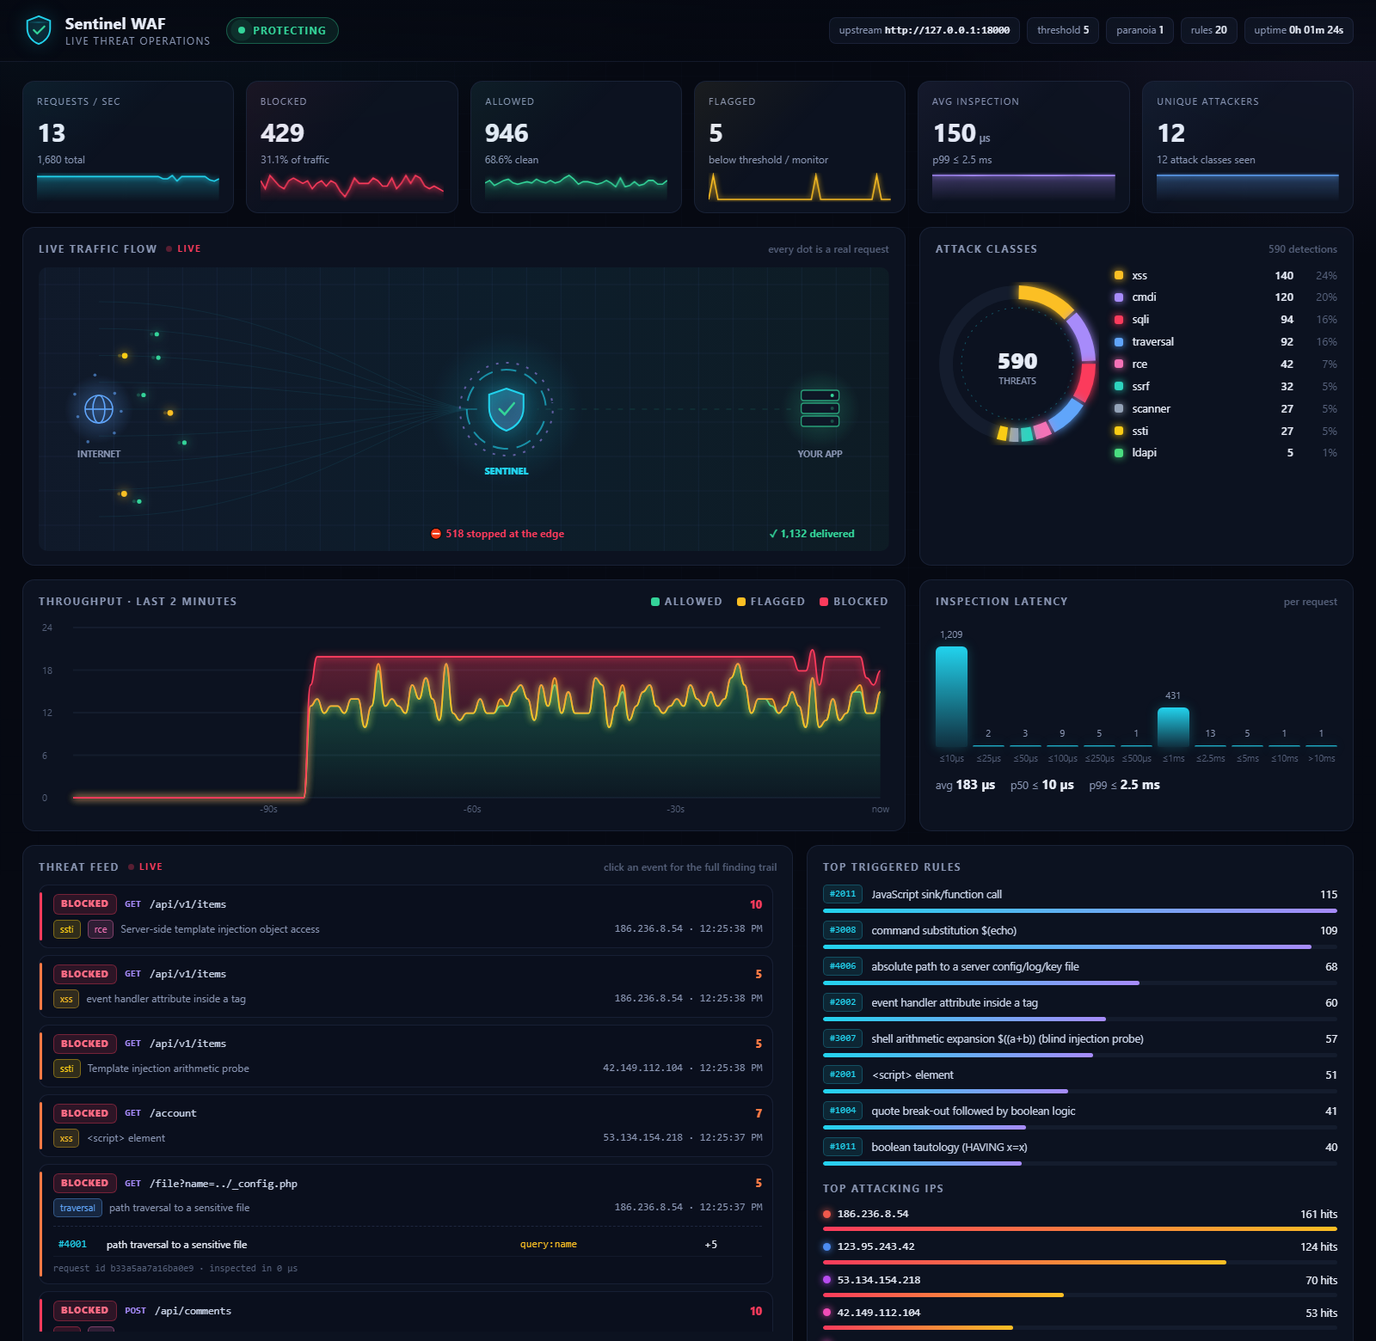
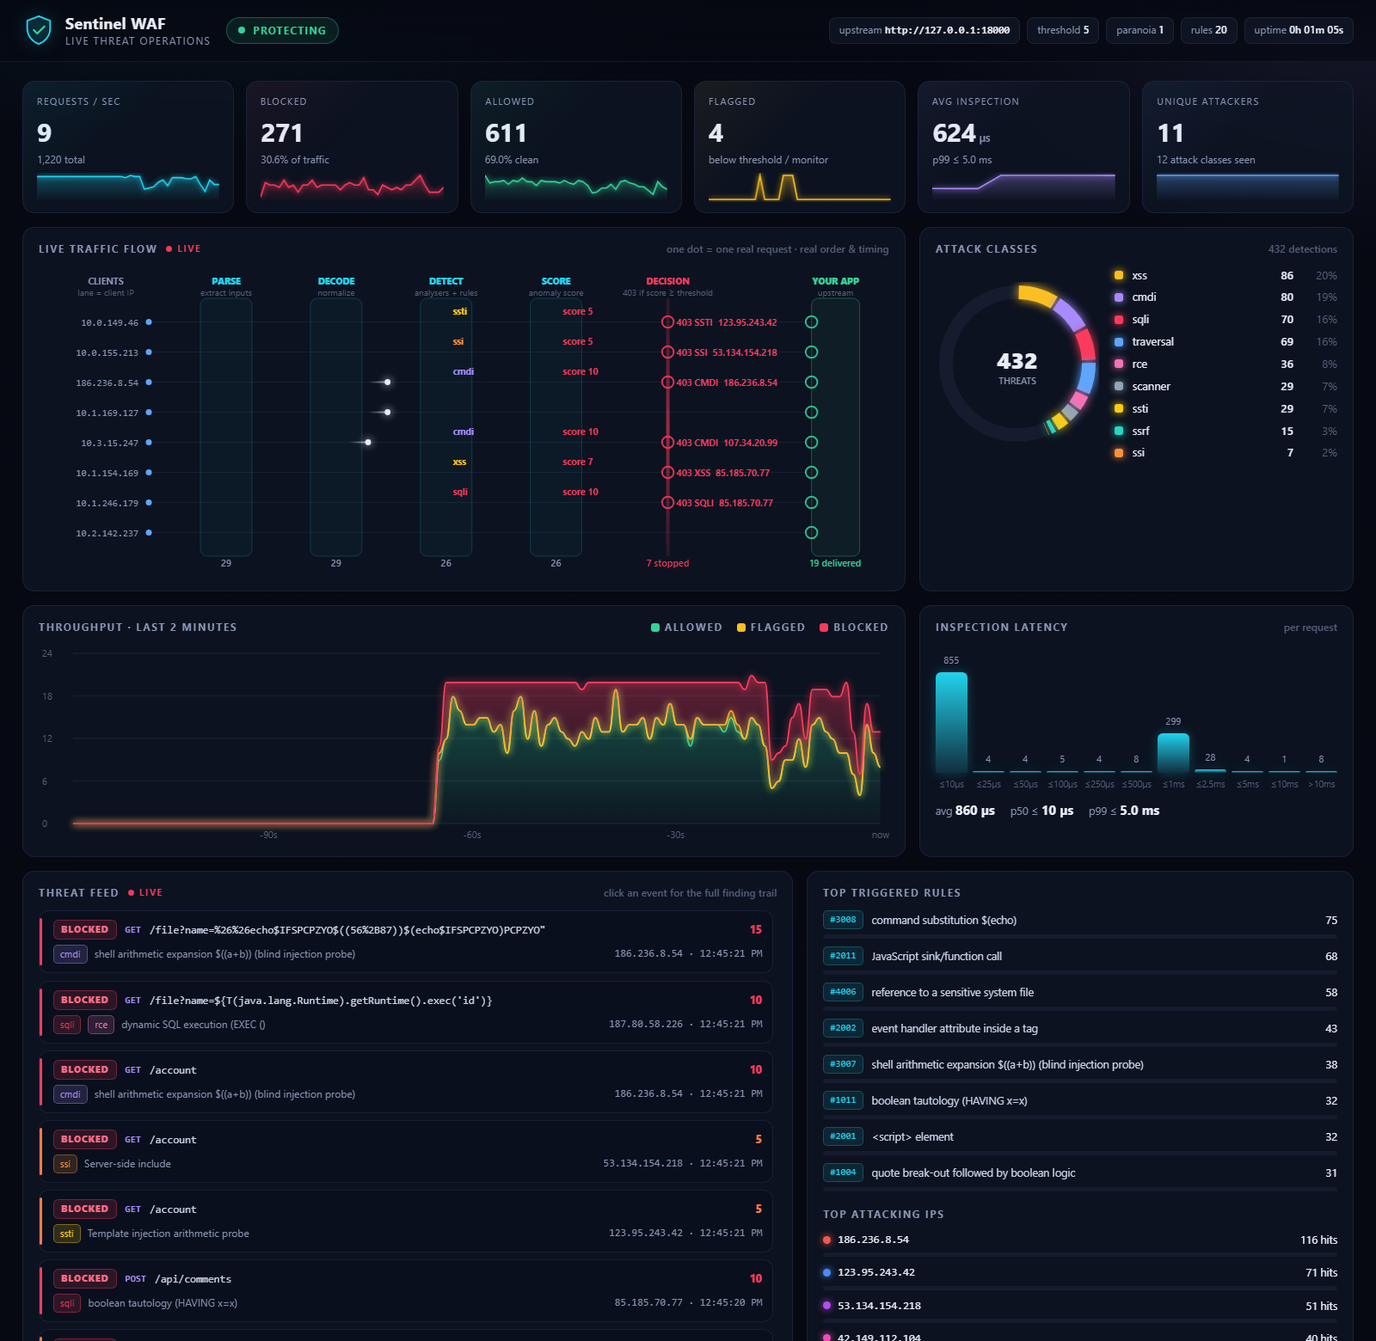
Dashboard: data-driven pipeline flow view
Replace the decorative particle animation with a view that follows the
real data path: one dot per request, replayed in real order and timing
(position derived from server timestamps), one lane per active client IP,
moving through PARSE/DECODE/DETECT/SCORE/DECISION/APP. Dots only take an
attack colour at DETECT, show the real score at SCORE, and blocked ones
stop at DECISION labelled with class and IP. Removes all random and
purely decorative motion (orbiting dots, spinning rings, scrolling grid,
random sparks).

diff --git a/internal/server/dashboard.html b/internal/server/dashboard.html
@@ -69,7 +69,7 @@ main{padding:22px 26px 40px;max-width:1680px;margin:0 auto}
 .panel h2 .right{margin-left:auto;text-transform:none;letter-spacing:0;font-weight:500;color:var(--faint);font-size:12px}
 .span8{grid-column:span 8}.span4{grid-column:span 4}.span12{grid-column:span 12}.span7{grid-column:span 7}.span5{grid-column:span 5}
 
-#flow{width:100%;height:330px;display:block;border-radius:10px}
+#flow{width:100%;height:360px;display:block;border-radius:10px}
 #tp{width:100%;height:230px;display:block}
 .legend{display:flex;gap:16px;font-size:12px;color:var(--dim)}
 .legend span::before{content:"";display:inline-block;width:10px;height:10px;border-radius:3px;margin-right:6px;vertical-align:-1px;background:var(--c)}
@@ -142,7 +142,7 @@ footer a{color:var(--dim)}
   <div class="brand">
     <div class="logo">
       <svg viewBox="0 0 40 40" fill="none"><path d="M20 3 6 8.5v9.7c0 8.7 5.9 15.9 14 18.8 8.1-2.9 14-10.1 14-18.8V8.5L20 3Z" stroke="#22d3ee" stroke-width="2" fill="rgba(34,211,238,.08)"/><path d="m14 20 4.2 4.2L27 15.5" stroke="#34d399" stroke-width="2.4" stroke-linecap="round" stroke-linejoin="round"/></svg>
-      <div class="scan"></div>
+
     </div>
     <div><h1>Sentinel WAF</h1><small>Live threat operations</small></div>
   </div>
@@ -168,7 +168,7 @@ footer a{color:var(--dim)}
 
   <section class="grid">
     <div class="panel span8">
-      <h2>Live traffic flow <span class="live">LIVE</span><span class="right" id="flow-note">every dot is a real request</span></h2>
+      <h2>Live traffic flow <span class="live">LIVE</span><span class="right" id="flow-note">one dot = one real request · real order &amp; timing</span></h2>
       <canvas id="flow"></canvas>
     </div>
     <div class="panel span4">
@@ -252,156 +252,126 @@ function spark(id, vals, color) {
   ctx.strokeStyle = color; ctx.lineWidth = 1.6; ctx.shadowColor = color; ctx.shadowBlur = 6; ctx.stroke(); ctx.shadowBlur = 0;
 }
 
-/* ---------------- live flow ---------------- */
-const flow = { parts: [], sparks: [], labels: [], ripples: [], pending: [], shieldHeat: 0, originPulse: 0, t: 0, allowed: 0, blocked: 0, srcs: [] };
-function spawn(ev) {
-  if (flow.pending.length > 600) flow.pending.splice(0, flow.pending.length - 600);
-  flow.pending.push(ev);
-}
-function flowFrame(dt) {
-  const cv = $("flow"); const [ctx, w, h] = sizeCanvas(cv);
-  flow.t += dt;
-  const sx = 70, shX = w * 0.55, oX = w - 80, cy = h / 2;
-
-  // release pending events smoothly across the poll interval
-  const rel = Math.min(flow.pending.length, Math.max(1, Math.ceil(flow.pending.length * dt * 1.6)));
-  for (let i = 0; i < rel; i++) {
-    const ev = flow.pending.shift(); if (!ev) break;
-    const lane = (hashIP(ev.ip) % 1000) / 1000;
-    const y0 = 40 + lane * (h - 80);
-    const bad = ev.action !== "allowed" && ev.action !== "flagged";
-    flow.parts.push({ x: sx, y: y0, y0, t: 0, speed: 0.55 + Math.random() * 0.35, bad, flag: ev.action === "flagged",
-      col: bad ? catColor((ev.categories || [])[0]) : ev.action === "flagged" ? "#fbbf24" : "#34d399", ev, stage: 0 });
+/* ---------------- live flow: one dot = one real request ----------------
+   Dots are replayed in the real order and with the real spacing of the
+   server timestamps, all at the same speed, on a lane chosen by client IP.
+   A dot is neutral until the DETECT stage (that is where Sentinel learns
+   what it is), shows its real score at SCORE, and at DECISION is either
+   stopped (403) or continues to the app. Nothing here is random. */
+const LANES = 8;
+const flow = { parts: [], queue: [], fx: [], laneIP: Array(LANES).fill(""), laneUsed: Array(LANES).fill(0), staged: [0, 0, 0, 0], delivered: 0, stopped: 0 };
+// An active IP keeps its lane; a new IP takes the least recently used lane.
+function laneFor(ip, now) {
+  let i = flow.laneIP.indexOf(ip);
+  if (i < 0) {
+    // prefer a lane with nothing in flight, so a label never changes under a moving request
+    const busy = new Set(flow.parts.map(p => p.lane));
+    let best = -1;
+    for (let k = 0; k < LANES; k++) if (!busy.has(k) && (best < 0 || flow.laneUsed[k] < flow.laneUsed[best])) best = k;
+    if (best < 0) { best = 0; for (let k = 1; k < LANES; k++) if (flow.laneUsed[k] < flow.laneUsed[best]) best = k; }
+    i = best; flow.laneIP[i] = ip;
   }
-
-  ctx.clearRect(0, 0, w, h);
-  // backdrop
-  const bg = ctx.createLinearGradient(0, 0, w, 0);
-  bg.addColorStop(0, "rgba(96,165,250,.05)"); bg.addColorStop(.55, "rgba(34,211,238,.06)"); bg.addColorStop(1, "rgba(52,211,153,.05)");
-  ctx.fillStyle = bg; ctx.fillRect(0, 0, w, h);
-  ctx.strokeStyle = "rgba(120,150,220,.07)"; ctx.lineWidth = 1;
-  for (let gx = (flow.t * 30) % 40; gx < w; gx += 40) { ctx.beginPath(); ctx.moveTo(gx, 0); ctx.lineTo(gx, h); ctx.stroke(); }
-  for (let gy = 20; gy < h; gy += 40) { ctx.beginPath(); ctx.moveTo(0, gy); ctx.lineTo(w, gy); ctx.stroke(); }
-
-  // lanes into the shield
-  ctx.strokeStyle = "rgba(34,211,238,.08)"; ctx.lineWidth = 1;
-  for (let i = 0; i < 9; i++) { const y0 = 40 + i / 8 * (h - 80); ctx.beginPath(); ctx.moveTo(sx, y0);
-    ctx.bezierCurveTo(sx + (shX - sx) * .5, y0, shX - 120, cy, shX - 34, cy); ctx.stroke(); }
-  ctx.strokeStyle = "rgba(52,211,153,.18)"; ctx.setLineDash([6, 8]); ctx.lineDashOffset = -flow.t * 40;
-  ctx.beginPath(); ctx.moveTo(shX + 36, cy); ctx.lineTo(oX - 34, cy); ctx.stroke(); ctx.setLineDash([]);
-
-  // internet node
-  drawNode(ctx, sx, cy, "INTERNET", "#60a5fa", 0);
-  for (let i = 0; i < 7; i++) { const a = flow.t * .4 + i * 0.9, r = 26 + (i % 3) * 7;
-    ctx.fillStyle = "rgba(96,165,250,.6)"; ctx.beginPath(); ctx.arc(sx + Math.cos(a) * r, cy + Math.sin(a) * r, 1.8, 0, 7); ctx.fill(); }
-  // origin node
-  drawServer(ctx, oX, cy);
-  // shield
-  drawShield(ctx, shX, cy);
-
-  // particles
-  for (let i = flow.parts.length - 1; i >= 0; i--) {
-    const p = flow.parts[i];
-    p.t += dt * p.speed;
-    let x, y;
-    if (p.stage === 0) {
-      const t = Math.min(1, p.t), it = 1 - t;
-      const x0 = sx, x1 = sx + (shX - sx) * .5, x2 = shX - 120, x3 = shX - 34;
-      x = it*it*it*x0 + 3*it*it*t*x1 + 3*it*t*t*x2 + t*t*t*x3;
-      y = it*it*it*p.y0 + 3*it*it*t*p.y0 + 3*it*t*t*cy + t*t*t*cy;
-      if (t >= 1) {
-        if (p.bad) { burst(shX - 30, cy, p.col, p.ev); flow.parts.splice(i, 1); flow.blocked++; continue; }
-        p.stage = 1; p.t = 0;
-      }
-    } else {
-      const t = Math.min(1, p.t * 1.6);
-      x = shX + 36 + (oX - 34 - shX - 36) * t; y = cy + Math.sin(t * Math.PI) * (p.flag ? -8 : 6);
-      if (t >= 1) { flow.originPulse = 1; flow.allowed++; flow.parts.splice(i, 1); continue; }
-    }
-    ctx.fillStyle = p.col; ctx.shadowColor = p.col; ctx.shadowBlur = 12;
-    ctx.beginPath(); ctx.arc(x, y, p.bad ? 3.4 : 2.6, 0, 7); ctx.fill();
-    ctx.shadowBlur = 0; ctx.globalAlpha = .25; ctx.beginPath(); ctx.arc(x - 6, y, 2, 0, 7); ctx.fill(); ctx.globalAlpha = 1;
-  }
-  if (flow.parts.length > 700) flow.parts.splice(0, flow.parts.length - 700);
-
-  // sparks, ripples, labels
-  for (let i = flow.sparks.length - 1; i >= 0; i--) {
-    const s = flow.sparks[i]; s.life -= dt * 1.6; if (s.life <= 0) { flow.sparks.splice(i, 1); continue; }
-    s.x += s.vx * dt; s.y += s.vy * dt; s.vx *= .96; s.vy *= .96;
-    ctx.globalAlpha = s.life; ctx.fillStyle = s.c; ctx.fillRect(s.x, s.y, 2.2, 2.2);
-  }
-  ctx.globalAlpha = 1;
-  for (let i = flow.ripples.length - 1; i >= 0; i--) {
-    const r = flow.ripples[i]; r.life -= dt * 1.5; if (r.life <= 0) { flow.ripples.splice(i, 1); continue; }
-    ctx.strokeStyle = r.c; ctx.globalAlpha = r.life * .7; ctx.lineWidth = 2;
-    ctx.beginPath(); ctx.arc(shX, cy, 44 + (1 - r.life) * 40, Math.PI * .6, Math.PI * 1.4); ctx.stroke();
-  }
-  ctx.globalAlpha = 1;
-  ctx.font = "600 11.5px Inter, system-ui, sans-serif"; ctx.textAlign = "center";
-  for (let i = flow.labels.length - 1; i >= 0; i--) {
-    const l = flow.labels[i]; l.life -= dt * .7; if (l.life <= 0) { flow.labels.splice(i, 1); continue; }
-    l.y -= dt * 26; ctx.globalAlpha = Math.min(1, l.life * 1.4); ctx.fillStyle = l.c;
-    ctx.fillText(l.text, l.x, l.y);
-  }
-  ctx.globalAlpha = 1; ctx.textAlign = "left";
-  flow.shieldHeat = Math.max(0, flow.shieldHeat - dt * 1.4);
-  flow.originPulse = Math.max(0, flow.originPulse - dt * 2);
-
-  // counters
-  ctx.font = "700 12px Inter, system-ui, sans-serif";
-  ctx.fillStyle = "#fb3b5c"; ctx.fillText(`⛔ ${fmt(tweens['k-blk'] ? tweens['k-blk'].cur : 0)} stopped at the edge`, shX - 90, h - 16);
-  ctx.fillStyle = "#34d399"; ctx.textAlign = "right"; ctx.fillText(`✓ ${fmt(tweens['k-ok'] ? tweens['k-ok'].cur : 0)} delivered`, oX + 40, h - 16); ctx.textAlign = "left";
+  flow.laneUsed[i] = now; return i;
 }
 function hashIP(s) { let h = 2166136261; for (const c of (s || "")) h = Math.imul(h ^ c.charCodeAt(0), 16777619) >>> 0; return h; }
-function burst(x, y, c, ev) {
-  for (let k = 0; k < 14; k++) { const a = Math.PI * (0.55 + Math.random() * 0.9), v = 60 + Math.random() * 140;
-    flow.sparks.push({ x, y, vx: Math.cos(a) * v, vy: Math.sin(a) * v, life: 1, c }); }
-  flow.ripples.push({ life: 1, c }); flow.shieldHeat = 1;
-  if (flow.labels.length < 14) flow.labels.push({ x: x - 70 - Math.random() * 40, y: y - 24 + (Math.random() - .5) * 60, life: 1.2, c,
-    text: ((ev.categories || [])[0] || ev.action).toUpperCase() + (ev.score ? " · " + ev.score : "") });
+// One label per lane+slot: a newer request replaces the older label instead of overprinting it.
+function fxSet(key, f) { const i = flow.fx.findIndex(x => x.key === key); f.key = key; if (i >= 0) flow.fx[i] = f; else flow.fx.push(f); }
+function scheduleBatch(evs) {
+  if (!evs || !evs.length) return;
+  const base = Date.parse(evs[0].time), now = performance.now();
+  const lag = flow.queue.length ? Math.max(0, flow.queue[flow.queue.length - 1].at - now) : 0;
+  for (const ev of evs) flow.queue.push({ at: now + lag + Math.max(0, Date.parse(ev.time) - base), ev });
+  if (flow.queue.length > 600) flow.queue.splice(0, flow.queue.length - 600);
 }
-function drawNode(ctx, x, y, label, col) {
-  const g = ctx.createRadialGradient(x, y, 2, x, y, 40); g.addColorStop(0, col + "55"); g.addColorStop(1, col + "00");
-  ctx.fillStyle = g; ctx.beginPath(); ctx.arc(x, y, 40, 0, 7); ctx.fill();
-  ctx.strokeStyle = col; ctx.lineWidth = 1.6; ctx.beginPath(); ctx.arc(x, y, 16, 0, 7); ctx.stroke();
-  ctx.beginPath(); ctx.ellipse(x, y, 7, 16, 0, 0, 7); ctx.stroke(); ctx.beginPath(); ctx.moveTo(x - 16, y); ctx.lineTo(x + 16, y); ctx.stroke();
-  ctx.font = "700 10.5px Inter, system-ui"; ctx.fillStyle = "#8a96b3"; ctx.textAlign = "center"; ctx.fillText(label, x, y + 56); ctx.textAlign = "left";
+const STAGES = [["PARSE", "extract inputs"], ["DECODE", "normalize"], ["DETECT", "analysers + rules"], ["SCORE", "anomaly score"]];
+function flowGeom(w, h) {
+  const top = 46, bottom = h - 34, laneH = (bottom - top) / LANES;
+  const xc = 128, gate = w * 0.74, app = w - 62;
+  const st = [0, 1, 2, 3].map(i => xc + 90 + i * (gate - xc - 220) / 3);
+  return { top, bottom, laneH, xc, st, gate, app, laneY: i => top + (i + 0.5) * laneH };
 }
-function drawServer(ctx, x, y) {
-  const p = flow.originPulse;
-  const g = ctx.createRadialGradient(x, y, 2, x, y, 46 + p * 10); g.addColorStop(0, `rgba(52,211,153,${.25 + p * .3})`); g.addColorStop(1, "rgba(52,211,153,0)");
-  ctx.fillStyle = g; ctx.beginPath(); ctx.arc(x, y, 50, 0, 7); ctx.fill();
-  for (let i = 0; i < 3; i++) {
-    const yy = y - 22 + i * 15;
-    ctx.fillStyle = "rgba(15,22,38,.95)"; ctx.strokeStyle = "rgba(52,211,153,.7)"; ctx.lineWidth = 1.3;
-    roundRect(ctx, x - 22, yy, 44, 12, 3); ctx.fill(); ctx.stroke();
-    ctx.fillStyle = (Math.floor(flow.t * 4 + i) % 3 === 0 || p > .3) ? "#34d399" : "rgba(52,211,153,.3)";
-    ctx.beginPath(); ctx.arc(x + 14, yy + 6, 2, 0, 7); ctx.fill();
+function flowFrame(dt) {
+  const [ctx, w, h] = sizeCanvas($("flow")); const g = flowGeom(w, h); const now = performance.now();
+
+  while (flow.queue.length && flow.queue[0].at <= now) {
+    const { ev, at } = flow.queue.shift(); const lane = laneFor(ev.ip, at);
+    const outcome = ev.action === "allowed" ? "ok" : ev.action === "flagged" ? "flag" : "block";
+    flow.parts.push({ ev, lane, born: at, x: g.xc, outcome, col: "#e7ecf7", stage: -1 });
   }
-  ctx.font = "700 10.5px Inter, system-ui"; ctx.fillStyle = "#8a96b3"; ctx.textAlign = "center"; ctx.fillText("YOUR APP", x, y + 56); ctx.textAlign = "left";
-}
-function drawShield(ctx, x, y) {
-  const heat = flow.shieldHeat;
-  const g = ctx.createRadialGradient(x, y, 4, x, y, 90);
-  g.addColorStop(0, heat > .05 ? `rgba(251,59,92,${.30 * heat + .08})` : "rgba(34,211,238,.18)"); g.addColorStop(1, "rgba(34,211,238,0)");
-  ctx.fillStyle = g; ctx.beginPath(); ctx.arc(x, y, 90, 0, 7); ctx.fill();
-  // rotating rings
-  ctx.lineWidth = 2;
-  for (let k = 0; k < 2; k++) {
-    ctx.save(); ctx.translate(x, y); ctx.rotate(flow.t * (k ? -.6 : .4));
-    ctx.strokeStyle = k ? "rgba(167,139,250,.55)" : "rgba(34,211,238,.6)"; ctx.setLineDash(k ? [3, 9] : [18, 10]);
-    ctx.beginPath(); ctx.arc(0, 0, k ? 54 : 46, 0, 7); ctx.stroke(); ctx.restore();
+  ctx.clearRect(0, 0, w, h);
+
+  // ---- static layout ----
+  ctx.textAlign = "center";
+  ctx.font = "700 10.5px Inter, system-ui"; ctx.fillStyle = "#8a96b3"; ctx.fillText("CLIENTS", g.xc - 50, 20);
+  ctx.fillStyle = "#55607a"; ctx.font = "10px Inter, system-ui"; ctx.fillText("lane = client IP", g.xc - 50, 33);
+  STAGES.forEach(([name, sub], i) => {
+    const x = g.st[i];
+    ctx.fillStyle = "rgba(34,211,238,.045)"; ctx.strokeStyle = "rgba(34,211,238,.20)"; ctx.lineWidth = 1;
+    roundRect(ctx, x - 30, g.top - 10, 60, g.bottom - g.top + 20, 8); ctx.fill(); ctx.stroke();
+    ctx.fillStyle = "#22d3ee"; ctx.font = "800 10.5px Inter, system-ui"; ctx.fillText(name, x, 20);
+    ctx.fillStyle = "#55607a"; ctx.font = "10px Inter, system-ui"; ctx.fillText(sub, x, 33);
+    ctx.fillStyle = "#8a96b3"; ctx.font = "600 11px Inter, system-ui"; ctx.fillText(fmt(flow.staged[i]), x, h - 12);
+  });
+  const gg = ctx.createLinearGradient(0, g.top, 0, g.bottom);
+  gg.addColorStop(0, "rgba(251,59,92,.15)"); gg.addColorStop(.5, "rgba(251,59,92,.6)"); gg.addColorStop(1, "rgba(251,59,92,.15)");
+  ctx.fillStyle = gg; ctx.fillRect(g.gate - 2, g.top - 10, 4, g.bottom - g.top + 20);
+  ctx.fillStyle = "#fb3b5c"; ctx.font = "800 10.5px Inter, system-ui"; ctx.fillText("DECISION", g.gate, 20);
+  ctx.fillStyle = "#55607a"; ctx.font = "10px Inter, system-ui"; ctx.fillText("403 if score ≥ threshold", g.gate, 33);
+  ctx.fillStyle = "#fb3b5c"; ctx.font = "600 11px Inter, system-ui"; ctx.fillText(fmt(flow.stopped) + " stopped", g.gate, h - 12);
+  ctx.fillStyle = "rgba(52,211,153,.06)"; ctx.strokeStyle = "rgba(52,211,153,.35)";
+  roundRect(ctx, g.app - 28, g.top - 10, 56, g.bottom - g.top + 20, 8); ctx.fill(); ctx.stroke();
+  ctx.fillStyle = "#34d399"; ctx.font = "800 10.5px Inter, system-ui"; ctx.fillText("YOUR APP", g.app, 20);
+  ctx.fillStyle = "#55607a"; ctx.font = "10px Inter, system-ui"; ctx.fillText("upstream", g.app, 33);
+  ctx.fillStyle = "#34d399"; ctx.font = "600 11px Inter, system-ui"; ctx.fillText(fmt(flow.delivered) + " delivered", g.app, h - 12);
+  for (let i = 0; i < LANES; i++) {
+    const y = g.laneY(i);
+    ctx.strokeStyle = "rgba(120,150,220,.10)"; ctx.lineWidth = 1; ctx.beginPath(); ctx.moveTo(g.xc, y); ctx.lineTo(g.app - 28, y); ctx.stroke();
+    ctx.fillStyle = flow.laneIP[i] ? "#60a5fa" : "#2a3247"; ctx.beginPath(); ctx.arc(g.xc, y, 3.5, 0, 7); ctx.fill();
+    ctx.textAlign = "right"; ctx.font = "11px 'JetBrains Mono', Consolas, monospace"; ctx.fillStyle = "#8a96b3";
+    ctx.fillText(flow.laneIP[i] || "—", g.xc - 12, y + 4); ctx.textAlign = "center";
   }
-  ctx.setLineDash([]);
-  // shield body
-  ctx.save(); ctx.translate(x - 20, y - 24); ctx.scale(1.0, 1.0);
-  ctx.beginPath(); ctx.moveTo(20, 0); ctx.lineTo(40, 7); ctx.lineTo(40, 22); ctx.bezierCurveTo(40, 36, 31, 45, 20, 49); ctx.bezierCurveTo(9, 45, 0, 36, 0, 22); ctx.lineTo(0, 7); ctx.closePath();
-  const sg = ctx.createLinearGradient(0, 0, 40, 49); sg.addColorStop(0, "rgba(34,211,238,.35)"); sg.addColorStop(1, "rgba(167,139,250,.25)");
-  ctx.fillStyle = sg; ctx.fill(); ctx.strokeStyle = heat > .05 ? "#fb3b5c" : "#22d3ee"; ctx.lineWidth = 2;
-  ctx.shadowColor = ctx.strokeStyle; ctx.shadowBlur = 16 + heat * 20; ctx.stroke(); ctx.shadowBlur = 0;
-  ctx.strokeStyle = "#34d399"; ctx.lineWidth = 2.6; ctx.lineCap = "round"; ctx.beginPath(); ctx.moveTo(12, 24); ctx.lineTo(18, 30); ctx.lineTo(29, 17); ctx.stroke();
-  ctx.restore();
-  ctx.font = "800 10.5px Inter, system-ui"; ctx.fillStyle = "#22d3ee"; ctx.textAlign = "center"; ctx.fillText("SENTINEL", x, y + 76); ctx.textAlign = "left";
+
+  // ---- requests: position = time since the request arrived x fixed speed (2 s client -> decision) ----
+  const speed = (g.gate - g.xc) / 2.0;
+  for (let i = flow.parts.length - 1; i >= 0; i--) {
+    const p = flow.parts[i], y = g.laneY(p.lane);
+    p.x = g.xc + speed * Math.max(0, now - p.born) / 1000;
+    while (p.stage < 3 && p.x >= g.st[p.stage + 1]) {
+      p.stage++; flow.staged[p.stage]++;
+      if (p.stage === 2 && (p.ev.categories || []).length) {
+        p.col = catColor(p.ev.categories[0]);
+        fxSet(p.lane + ":det", { kind: "tag", x: g.st[2] + 8, y: y - 9, text: p.ev.categories.join(" + "), c: p.col, life: 1.4 });
+      }
+      if (p.stage === 3 && p.ev.score)
+        fxSet(p.lane + ":score", { kind: "tag", x: g.st[3] + 8, y: y - 9, text: "score " + p.ev.score, c: p.outcome === "block" ? "#fb3b5c" : "#fbbf24", life: 1.4 });
+    }
+    if (p.outcome === "block" && p.x >= g.gate - 6) {
+      flow.stopped++;
+      fxSet(p.lane + ":gring", { kind: "ring", x: g.gate, y, c: "#fb3b5c", life: 1 });
+      const why = ((p.ev.categories || [])[0] || p.ev.action).toUpperCase();
+      fxSet(p.lane + ":gate", { kind: "tag", x: g.gate + 10, y: y + 4, text: "403 " + why + "  " + p.ev.ip, c: "#fb3b5c", life: 1.6 });
+      flow.parts.splice(i, 1); continue;
+    }
+    if (p.x >= g.gate && !p.passed) { p.passed = true; p.col = p.outcome === "flag" ? "#fbbf24" : "#34d399"; }
+    if (p.x >= g.app - 28) {
+      flow.delivered++; fxSet(p.lane + ":app", { kind: "ring", x: g.app - 28, y, c: "#34d399", life: 1 });
+      flow.parts.splice(i, 1); continue;
+    }
+    const grad = ctx.createLinearGradient(p.x - 22, 0, p.x, 0); grad.addColorStop(0, p.col + "00"); grad.addColorStop(1, p.col + "aa");
+    ctx.strokeStyle = grad; ctx.lineWidth = 2; ctx.beginPath(); ctx.moveTo(p.x - 22, y); ctx.lineTo(p.x, y); ctx.stroke();
+    ctx.fillStyle = p.col; ctx.shadowColor = p.col; ctx.shadowBlur = 10; ctx.beginPath(); ctx.arc(p.x, y, 3.4, 0, 7); ctx.fill(); ctx.shadowBlur = 0;
+  }
+
+  // ---- effects: fixed positions, fade only ----
+  ctx.textAlign = "left"; ctx.font = "700 10.5px Inter, system-ui";
+  for (let i = flow.fx.length - 1; i >= 0; i--) {
+    const f = flow.fx[i]; f.life -= dt; if (f.life <= 0) { flow.fx.splice(i, 1); continue; }
+    ctx.globalAlpha = Math.min(1, f.life);
+    if (f.kind === "ring") { ctx.strokeStyle = f.c; ctx.lineWidth = 2; ctx.beginPath(); ctx.arc(f.x, f.y, 5 + (1 - f.life) * 12, 0, 7); ctx.stroke(); }
+    else { ctx.fillStyle = f.c; ctx.fillText(f.text, f.x, f.y); }
+  }
+  ctx.globalAlpha = 1;
+  if (flow.fx.length > 300) flow.fx.splice(0, flow.fx.length - 300);
 }
 function roundRect(ctx, x, y, w, h, r) { ctx.beginPath(); ctx.moveTo(x + r, y); ctx.arcTo(x + w, y, x + w, y + h, r); ctx.arcTo(x + w, y + h, x, y + h, r); ctx.arcTo(x, y + h, x, y, r); ctx.arcTo(x, y, x + w, y, r); ctx.closePath(); }
 
@@ -463,8 +433,6 @@ function donutFrame(dt) {
     ctx.beginPath(); ctx.arc(cx, cy, r, a + 0.02, a + Math.max(0.02, da - 0.02)); ctx.stroke(); a += da;
   }
   ctx.shadowBlur = 0;
-  ctx.save(); ctx.translate(cx, cy); ctx.rotate(performance.now() / 2600);
-  ctx.strokeStyle = "rgba(34,211,238,.35)"; ctx.lineWidth = 1; ctx.setLineDash([2, 6]); ctx.beginPath(); ctx.arc(0, 0, r - 18, 0, 7); ctx.stroke(); ctx.restore();
   ctx.fillStyle = "#e7ecf7"; ctx.textAlign = "center"; ctx.font = "800 26px Inter, system-ui"; ctx.fillText(fmt(total), cx, cy + 6);
   ctx.font = "600 10.5px Inter, system-ui"; ctx.fillStyle = "#8a96b3"; ctx.fillText("THREATS", cx, cy + 24); ctx.textAlign = "left";
 }
@@ -507,8 +475,7 @@ function render(d) {
   hist.ips.push(s.unique_attackers || 0); if (hist.ips.length > 40) hist.ips.shift(); spark("s-ips", hist.ips, "#60a5fa");
 
   // flow
-  if (!first) (s.events || []).forEach(spawn);
-  else { flow.allowed = allowed; flow.blocked = blockedAll; }
+  if (!first) scheduleBatch(s.events);
 
   // donut + legend
   const cats = Object.entries(s.categories || {}).sort((a, b) => b[1] - a[1]);

diff --git a/docs/HOW-IT-WORKS.md b/docs/HOW-IT-WORKS.md
@@ -138,7 +138,7 @@ Open `http://127.0.0.1:9090` while Sentinel runs. Everything updates every secon
 |---|---|
 | **Header** | Protecting or monitoring status, upstream, threshold, paranoia level, rule count, uptime |
 | **KPI cards** | Requests per second, blocked, allowed, flagged (scored but under the threshold), average inspection time and p99, unique attacker IPs. Each card has a 40-second sparkline. |
-| **Live traffic flow** | **Every dot is a real request.** Dots fly from the internet towards the shield. Blocked ones explode on the shield in the colour of their attack class, and the class name floats up. Allowed ones continue to your app. |
+| **Live traffic flow** | **One dot is one real request**, replayed in its real order and timing from the server timestamps, all at the same speed. Each active client IP gets its own lane. A dot moves through the actual pipeline: **PARSE, DECODE, DETECT, SCORE, DECISION, YOUR APP**. It stays white until DETECT, which is where Sentinel learns what it is; there it takes its attack colour and label. SCORE shows its real anomaly score. At DECISION a blocked request stops with `403 <class> <ip>`, and an allowed one turns green and continues to the app. Each stage column counts the requests that have passed it. Nothing in this view is random or decorative. |
 | **Attack classes** | Animated donut chart of detections by category |
 | **Throughput** | Allowed, flagged and blocked requests per second over the last 2 minutes. Hover for exact numbers. |
 | **Inspection latency** | Histogram of how long inspection took per request |
